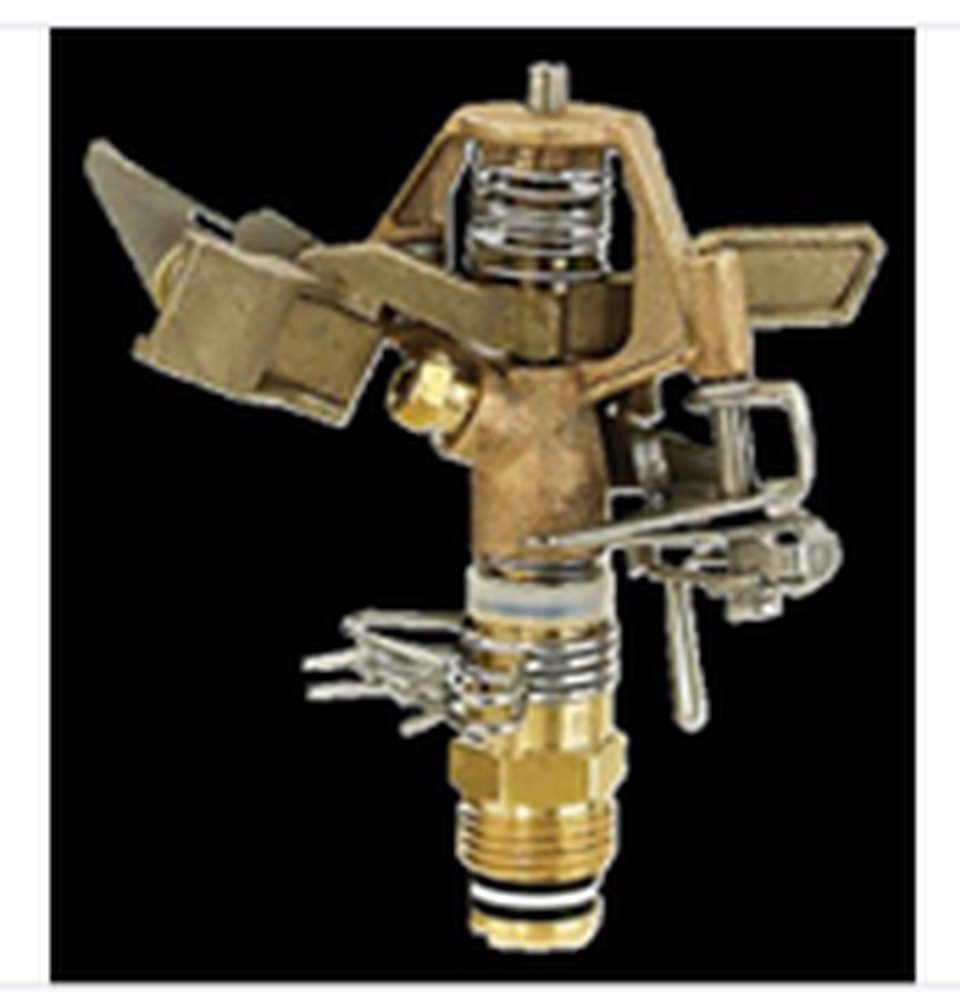
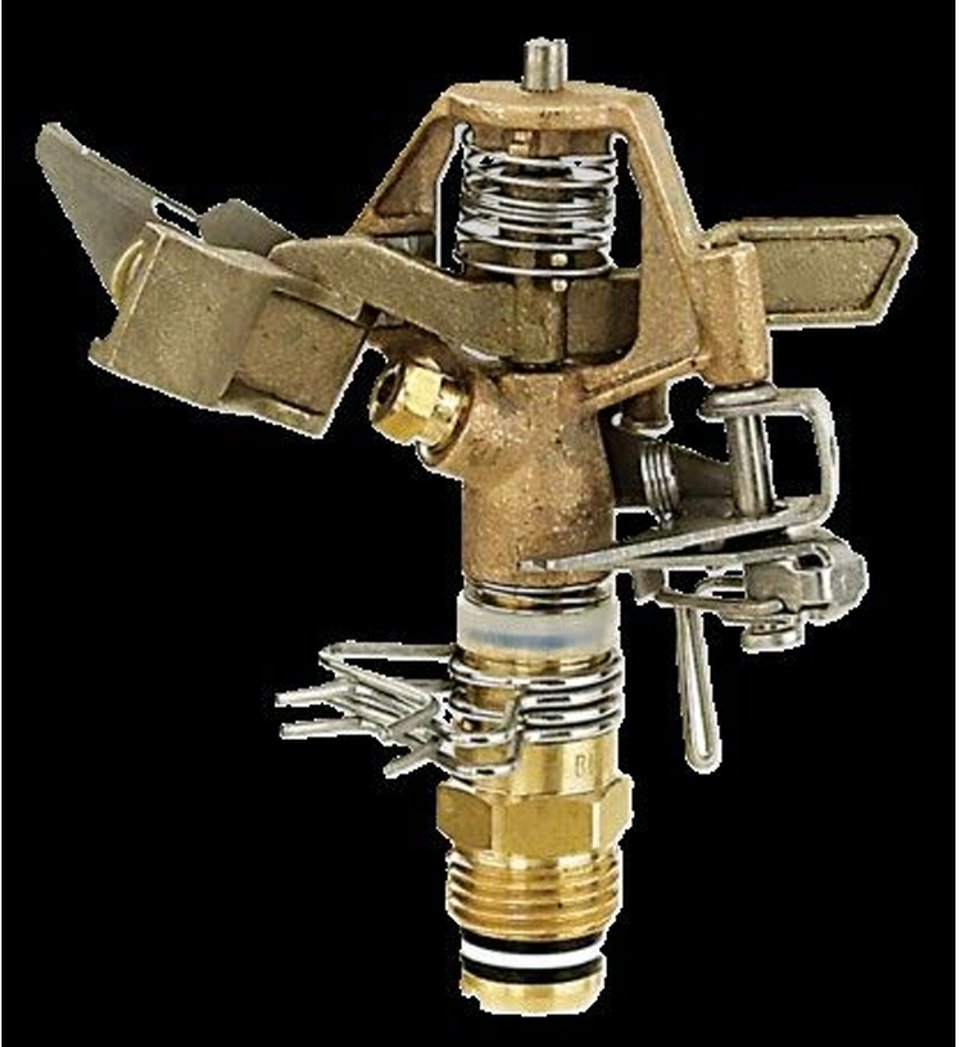
P7 main image: upgrade to high-res sprinkler head (628x685 source, ~1.5x upscale)

diff --git a/emergency-prep.html b/emergency-prep.html
@@ -338,7 +338,7 @@
                 <div class="row align-items-center mb-5">
                     <div class="col-md-5">
                         <div class="product-image-wrap">
-                            <img src="ep_images/ep7_sprinkler.jpg?v=ep7b" alt="Wildfire Structure Sprinkler Kit - Adjustable Impact Sprinkler Head, 45 Degree Elbow and Ground Stake" class="img-fluid product-img">
+                            <img src="ep_images/ep7_sprinkler.jpg?v=ep7c" alt="Wildfire Structure Sprinkler Kit - Adjustable Impact Sprinkler Head, 45 Degree Elbow and Ground Stake" class="img-fluid product-img">
                         </div>
                     </div>
                     <div class="col-md-7">
